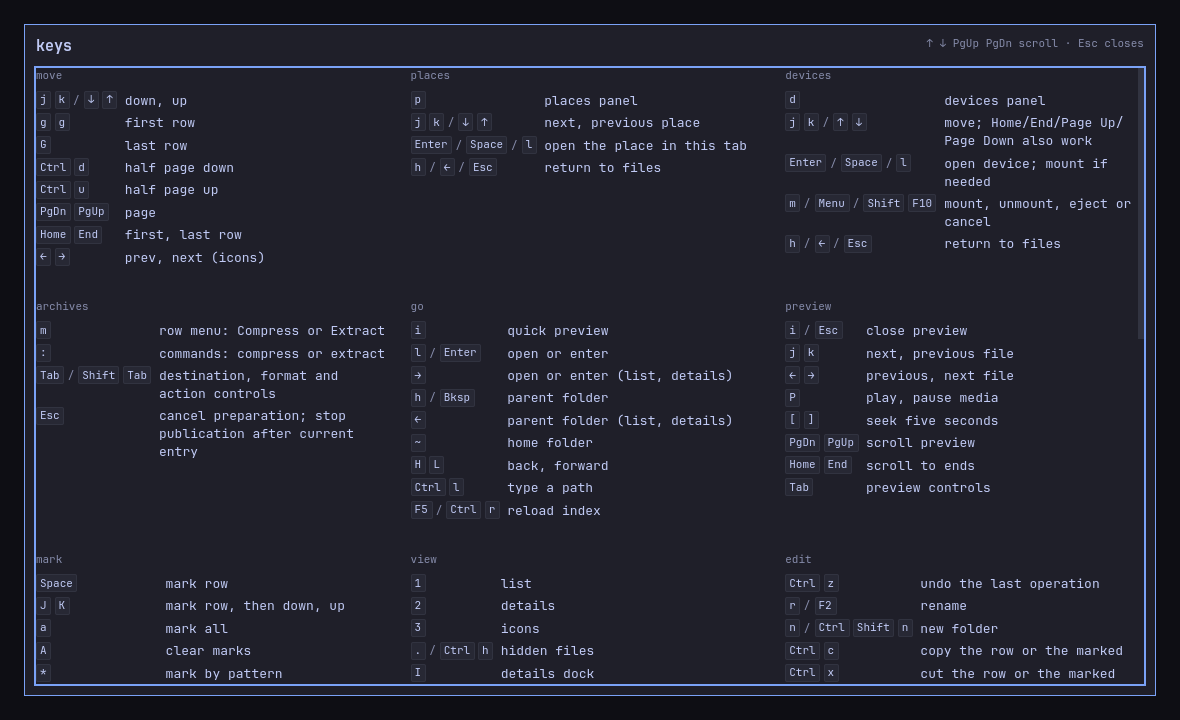
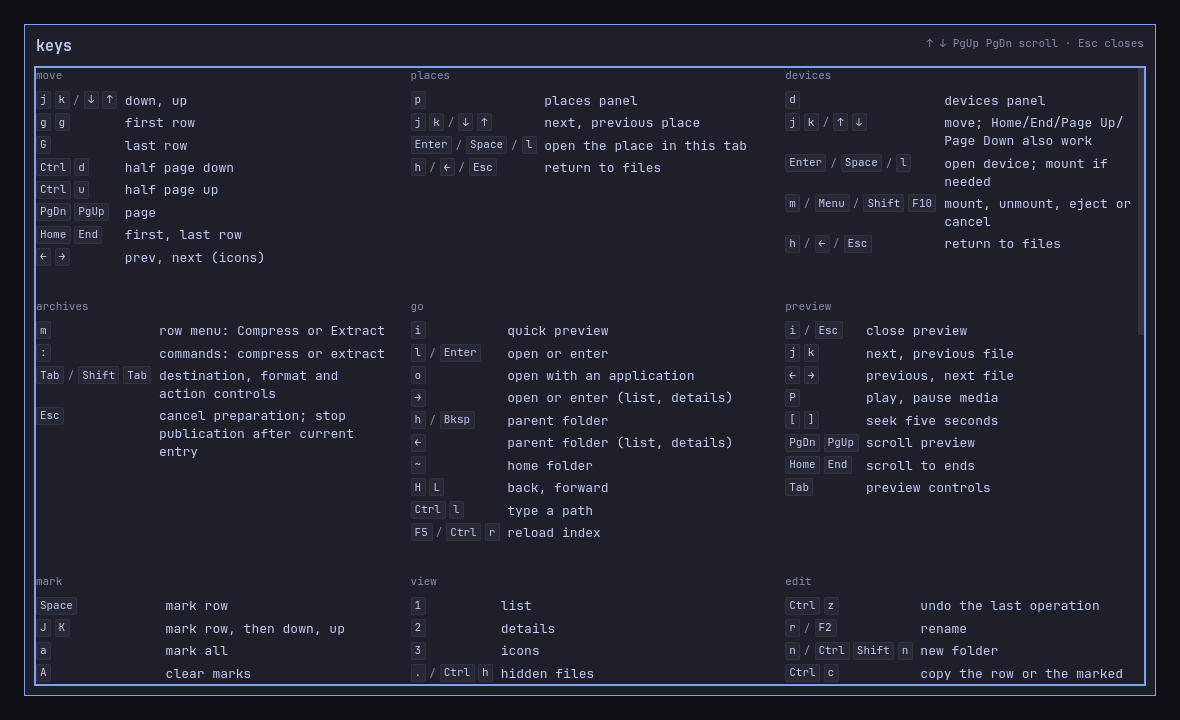
feat(studio): open with from the keyboard with o
Open with in the details dock had no key, while Open and Rename show
theirs, so choosing an application meant the row menu or the pointer.
`o` opens the same list under the cursor row, as `m` places the row
menu, so it works with the dock hidden, and only where the dock's
button can be pressed. The key sheet, the row menu entry and the
dock button name it.

diff --git a/src/studio/qml/Main.qml b/src/studio/qml/Main.qml
@@ -393,6 +393,7 @@ Window {
         { title: "go", keys: [
             { key: "i", label: "quick preview" },
             { key: "l / Enter", label: "open or enter" },
+            { key: "o", label: "open with an application" },
             { key: "→", label: "open or enter (list, details)" },
             { key: "h / Bksp", label: "parent folder" },
             { key: "←", label: "parent folder (list, details)" },
@@ -1349,25 +1350,39 @@ Window {
     function openFileMenuForListing() {
         const listing = activeListing
         const folder = activeFolder
-        if (!listing || !folder || listing.currentIndex < 0) {
-            fileMenu.targetPath = ""
-            fileMenu.targetKind = ""
-            openFileMenuAt(root.width / 2, root.height / 3, root.height / 3)
-            return
-        }
-        fileMenu.targetPath = folder.pathAt(listing.currentIndex)
-        fileMenu.targetKind = folder.kindAt(listing.currentIndex)
-        // Only rows the view has actually built have a position to point at,
-        // and a cursor that is off screen -- or past the end of a list that has
-        // just shrunk -- has none.
-        const item = listing.currentIndex < folder.count
+        const has = listing && folder && listing.currentIndex >= 0
+        fileMenu.targetPath = has ? folder.pathAt(listing.currentIndex) : ""
+        fileMenu.targetKind = has ? folder.kindAt(listing.currentIndex) : ""
+        const span = cursorRowSpan()
+        openFileMenuAt(span.x, span.top, span.bottom)
+    }
+
+    // The cursor row's name and height in `root`, or a point in the middle of
+    // the window where there is no row to point at. Only rows the view has
+    // actually built have a position, and a cursor that is off screen -- or
+    // past the end of a list that has just shrunk -- has none.
+    function cursorRowSpan() {
+        const listing = activeListing
+        const folder = activeFolder
+        const item = listing && folder && listing.currentIndex >= 0
+                     && listing.currentIndex < folder.count
                      ? listing.itemAtIndex(listing.currentIndex) : null
-        if (!item) {
-            openFileMenuAt(root.width / 2, root.height / 3, root.height / 3)
-            return
-        }
+        if (!item)
+            return { x: root.width / 2, top: root.height / 3, bottom: root.height / 3 }
         const top = item.mapToItem(root, 0, 0).y
-        openFileMenuAt(item.nameItem.mapToItem(root, 0, 0).x, top, top + item.height)
+        return { x: item.nameItem.mapToItem(root, 0, 0).x, top: top, bottom: top + item.height }
+    }
+
+    // `o`: the applications for the cursor row, under the row as `m` opens its
+    // menu, so it lands in the same place with the dock shown or hidden. Only
+    // where the dock's Open with can be pressed.
+    function openOpenWithMenuForCursor() {
+        if (!details.canOpenWith)
+            return
+        const span = cursorRowSpan()
+        menuX = span.x
+        menuY = span.bottom
+        openOpenWithMenu(details.entry.path)
     }
 
     function openViewMenuAt(row, x, y) {
@@ -1745,6 +1760,7 @@ Window {
         switch (text) {
         case "l": folder.activateRow(listing.currentIndex); return true
         case "i": openPreview(""); return true
+        case "o": openOpenWithMenuForCursor(); return true
         case "h": folder.goUp(); return true
         case "~": folder.goHome(); return true
         case "H": goBack(); return true
@@ -2531,6 +2547,7 @@ Window {
                         entry: win.activeFilesRoot ? win.activeFilesRoot.entry : ({})
                         addTagKey: "t a"
                         openKey: "l"
+                        openWithKey: "o"
                         renameKey: "r"
                         onTagOpened: function (tag) {
                             win.takeFocus()
@@ -2918,7 +2935,7 @@ Window {
             actions: [
                 { id: "open", label: "Open", key: "l", when: fileMenu.hasTarget },
                 { id: "preview", label: "Quick preview", key: "i", when: fileMenu.isFile },
-                { id: "open-with", label: "Open with…",
+                { id: "open-with", label: "Open with…", key: "o",
                   when: IndexModel.canOpenWith && fileMenu.isRow },
                 { id: "go-to", label: "Go to containing folder",
                   when: win.onFiles && fileMenu.elsewhere },

diff --git a/src/studio/qml/Details.qml b/src/studio/qml/Details.qml
@@ -16,6 +16,7 @@ Rectangle {
     /// The keys of the "+ Tag" button and of the three actions.
     property string addTagKey: ""
     property string openKey: ""
+    property string openWithKey: ""
     property string renameKey: ""
     readonly property bool has: entry && entry.path !== undefined
     // A column the dock has no room for is dropped whole, the actions first:
@@ -26,6 +27,7 @@ Rectangle {
     readonly property bool roomForTags: width >= fileRoom + 1 + tagsWidth
     readonly property bool roomForActions: roomForTags && width >= fileRoom + 2 + tagsWidth + actionsWidth
     readonly property bool onRow: details.has && (details.entry.kind === "file" || details.entry.kind === "dir")
+    readonly property bool canOpenWith: details.onRow && IndexModel.canOpenWith
 
     signal tagOpened(string tag)
     signal tagRemoved(string tag)
@@ -400,7 +402,8 @@ Rectangle {
                 objectName: "detailsOpenWith"
                 label: "Open with"
                 caption: "Choose the application to open it"
-                usable: details.has && IndexModel.canOpenWith && details.onRow
+                key: details.openWithKey
+                usable: details.canOpenWith
                 onClicked: details.openWithRequested(openWith)
             }
             Action {

diff --git a/tests/tst_studio.cpp b/tests/tst_studio.cpp
@@ -771,6 +771,7 @@ private slots:
     void detailsTagChipRemoveIsItsOwnTarget();
     void detailsTagChipHandsOnFocusWhenRemoved();
     void dockActionsRunTheirCommands();
+    void opensWithFromTheKeyboard();
     void detailsDockYieldsInShortWindows();
     void detailsModeRowDropsWhenNarrow();
 
@@ -805,6 +806,7 @@ private:
     void settle();
     bool cancelPendingFileDrop();
     void writeIndex();
+    QDir registerReader();
     /// Walks one whole Tab cycle from the file list: "visited" or "skipped"
     /// says whether `item` took the keyboard on the way, "open" that the
     /// cycle never came back.
@@ -870,6 +872,23 @@ void TestStudio::writeIndex()
                              QString::fromLatin1(row.tags))
                         .toUtf8());
     }
+}
+
+// One application for text files, `Oma Reader`, in the suite's own data home,
+// so `Open with` has something to offer on a machine with none installed.
+// Returns the folder it is written in; the caller removes it.
+QDir TestStudio::registerReader()
+{
+    const QDir data(m_home.path());
+    data.mkpath(QStringLiteral("applications"));
+    const QDir apps(data.filePath(QStringLiteral("applications")));
+    QFile entry(apps.filePath(QStringLiteral("oma-reader.desktop")));
+    if (entry.open(QIODevice::WriteOnly | QIODevice::Text))
+        entry.write("[Desktop Entry]\nType=Application\nName=Oma Reader\nExec=oma-reader %f\n");
+    QFile cache(apps.filePath(QStringLiteral("mimeinfo.cache")));
+    if (cache.open(QIODevice::WriteOnly | QIODevice::Text))
+        cache.write("[MIME Cache]\ntext/plain=oma-reader.desktop;\n");
+    return apps;
 }
 
 // Set before the application exists: the suite runs as if the user raised Qt's
@@ -4625,6 +4644,7 @@ void TestStudio::everyDocumentedKeyIsAnswered()
         {"J", ""},        {"K", ""},
         {"H", "back"},    {"L", "forward"}, // need a folder to go to
         {"I", ""},
+        {"o", "apps"},                     // needs an application and a text file
     };
 
     // The other half of the sheet: the rows spelled as words. The sweep below
@@ -4744,8 +4764,13 @@ void TestStudio::everyDocumentedKeyIsAnswered()
         }
         if (setup == QLatin1String("forward"))
             tab()->goBack();
+        QDir apps;
+        if (setup == QLatin1String("apps"))
+            apps = registerReader();
         settle();
-        QMetaObject::invokeMethod(filesRoot(), "setCursor", Q_ARG(QVariant, QVariant(1)));
+        // Row 1 is the folder; the reader opens text files.
+        const int start = setup == QLatin1String("apps") ? rowOf(QStringLiteral("one.txt")) : 1;
+        QMetaObject::invokeMethod(filesRoot(), "setCursor", Q_ARG(QVariant, QVariant(start)));
         settle();
 
         const QString cwdBefore = cwd();
@@ -4784,6 +4809,8 @@ void TestStudio::everyDocumentedKeyIsAnswered()
                                 .arg(QChar::fromLatin1(one.key[0]))));
 
         key(Qt::Key_Escape);
+        if (setup == QLatin1String("apps"))
+            apps.removeRecursively();
         settle();
     }
 
@@ -5924,13 +5951,9 @@ void TestStudio::worksTheTabMenu()
 // case says the same thing on a machine with no applications installed at all.
 void TestStudio::offersTheApplicationsRegisteredForTheFile()
 {
-    const QDir data(m_home.path());
-    QVERIFY(data.mkpath(QStringLiteral("applications")));
-    QDir apps(data.filePath(QStringLiteral("applications")));
+    QDir apps = registerReader();
 
     const struct { const char *file; const char *body; } entries[] = {
-        {"oma-reader.desktop",
-         "[Desktop Entry]\nType=Application\nName=Oma Reader\nExec=oma-reader %f\n"},
         {"oma-hidden.desktop",
          "[Desktop Entry]\nType=Application\nName=Oma Hidden\nNoDisplay=true\nExec=x %f\n"},
         {"oma-dropped.desktop",
@@ -10330,6 +10353,7 @@ void TestStudio::dockActionsRunTheirCommands()
     QCOMPARE(window()->property("prompt").toString(), QString());
 
     auto *openWith = itemsNamed(QStringLiteral("detailsOpenWith")).first();
+    QCOMPARE(openWith->property("key").toString(), QStringLiteral("o"));
     QCOMPARE(openWith->isEnabled(), m_index->canOpenWith());
     if (!m_index->canOpenWith())
         return;
@@ -10340,6 +10364,71 @@ void TestStudio::dockActionsRunTheirCommands()
                                : m_index->notice() == QStringLiteral("no application registered for two.md"),
              qPrintable(m_index->notice()));
     key(Qt::Key_Escape);
+}
+
+// `o` opens the applications for the cursor row, as the dock's Open with does,
+// under the row with the dock shown or hidden, and does nothing on a row the
+// dock's button cannot be pressed for.
+void TestStudio::opensWithFromTheKeyboard()
+{
+    if (!m_index->canOpenWith())
+        QSKIP("nothing here can launch an application with Open with");
+    QDir apps = registerReader();
+    const auto cleanup = qScopeGuard([&] {
+        apps.removeRecursively();
+        window()->setProperty("detailsShown", true);
+        settle();
+    });
+    QObject *root = m_engine->rootObjects().first();
+    auto *menu = itemsNamed(QStringLiteral("openWithMenu")).first();
+    const QString one = m_tree.filePath(QStringLiteral("one.txt"));
+
+    for (const bool shown : {true, false}) {
+        root->setProperty("detailsShown", shown);
+        focusRow(QStringLiteral("one.txt"));
+        key('o');
+        QTRY_VERIFY(menu->isVisible());
+        QCOMPARE(menu->property("targetPath").toString(), one);
+        QVERIFY2(menuLabels(QStringLiteral("openWithMenu")).contains(QStringLiteral("Oma Reader")),
+                 qPrintable(menuLabels(QStringLiteral("openWithMenu")).join(QLatin1String(" | "))));
+        // Under the row, where `m` opens the row menu.
+        auto *panel = menu->property("panel").value<QQuickItem *>();
+        QVERIFY(panel);
+        auto *listing = filesRoot()->property("view").value<QQuickItem *>();
+        QQuickItem *row = nullptr;
+        QMetaObject::invokeMethod(listing, "itemAtIndex", Q_RETURN_ARG(QQuickItem *, row),
+                                  Q_ARG(int, cursor()));
+        QVERIFY(row);
+        QCOMPARE(panel->mapToScene(QPointF(0, 0)).y(),
+                 row->mapToScene(QPointF(0, row->height())).y());
+        key(Qt::Key_Escape);
+        QTRY_VERIFY(!menu->isVisible());
+    }
+
+    // The row menu's entry names the same key.
+    key('m');
+    auto *rowMenu = itemsNamed(QStringLiteral("fileMenu")).first();
+    QTRY_VERIFY(rowMenu->isVisible());
+    QString shownKey;
+    for (const QVariant &entry : rowMenu->property("shown").toList())
+        if (entry.toMap().value(QStringLiteral("id")).toString() == QLatin1String("open-with"))
+            shownKey = entry.toMap().value(QStringLiteral("key")).toString();
+    QCOMPARE(shownKey, QStringLiteral("o"));
+    key(Qt::Key_Escape);
+    QTRY_VERIFY(!rowMenu->isVisible());
+
+    // The `..` row is a way up, not a file: the dock's button is greyed there,
+    // and the key neither opens the menu nor says it found nothing.
+    QMetaObject::invokeMethod(filesRoot(), "setCursor", Q_ARG(QVariant, QVariant(0)));
+    settle();
+    QCOMPARE(filesRoot()->property("entry").toMap().value(QStringLiteral("kind")).toString(),
+             QStringLiteral("parent"));
+    QVERIFY(!itemsNamed(QStringLiteral("detailsOpenWith")).first()->isEnabled());
+    m_index->clearNotice();
+    key('o');
+    settle();
+    QVERIFY(!menu->isVisible());
+    QCOMPARE(m_index->notice(), QString());
 }
 
 QTEST_MAIN(TestStudio)

diff --git a/docs/design.md b/docs/design.md
@@ -48,7 +48,7 @@ The CLI is a command-line tool that invokes core library verbs: `ls`, `tags`, `t
 
 ### Studio (`src/studio`)
 
-The studio is a Qt Quick window over the core library. It implements folder browsing, tag editing, thumbnail display, preview, trash, undo, desktop file manager integration, file operations with conflict resolution, and the portal file chooser. Its window is a tab strip and a toolbar, then the body: the sidebar on the left (`Sidebar.qml`: places, devices, tags, saved views) at full height, and beside it the panes in a split view with the details dock under them (`Details.qml`), as wide as every pane together and behind a 1 px `line`. The dock has three columns split by `line`: the file (a 48 px `raised` icon square, the name in `fontTitle` DemiBold, the path, the facts in pairs), its tags (248 px), and its actions (156 px). A column with no room beside 400 px of file column is dropped whole, the actions first. The tab strip holds every pane's tabs, side by side in pane order, each pane's group with its own `+`, and the keys sheet's button at the right. The toolbar holds back, forward, up and undo, the path as one `Chip` per folder (the current one on; a stem too long for the bar gives way from the left behind one `…`), the filter field, the sort button (`chooseSort` in `Main.qml`, which `s` also calls), the view mode switch (`ViewModeSwitch.qml`: one Tab stop, Left and Right inside) and the Details toggle (`detailsShown`). The toolbar acts on the focused pane. There is one sidebar and one dock per window, and both act on the focused pane too. The sidebar is dropped while a pane would be too narrow beside it (`paneShare`, the window width over the pane count, under 480). The dock is as tall as its file column with the path on all three lines, so it keeps its height while the cursor moves. It is there on every list tab at any width; it is dropped while the panes above it would be shorter than `listLeast`, and comes back when there is room (`details.fits`). The Details toggle and **I** (`detailsShown`, also the palette's **Show or hide details**) decide whether it is wanted. The facts' Mode and Marked row is dropped where the file column cannot hold the permission bits, so no bit is cut. The path wraps only after `/`: `Details.breakable` puts U+200B after each `/` and U+2060 between the other characters, so a space or a hyphen gives no break, and `fitPath` drops whole folders from the middle behind `…` until a hidden probe `Text` lays it out on three lines. A dock tag chip is one `FocusableControl` whose tap is routed by position: the trailing 12 px `×` removes the tag (`IndexModel.tagRemove` over the row or the marked set, as the row menu's **Remove tag** does), the body toggles the tag's view as a sidebar click does (`toggleTag`); Enter opens and Delete removes. A chip that goes while it has the keyboard, as when the cursor moves to a row without its tag, hands the keyboard to the next control in the Tab chain (`handOnFocus`), as a hidden `FocusableControl` does. Open, Open with and Rename call what `l`, the row menu and `r` call. `detailsDockTogglesWithKey`, `detailsPathBreaksAfterSlash`, `detailsTagChipRemoveIsItsOwnTarget`, `detailsTagChipHandsOnFocusWhenRemoved` and `dockActionsRunTheirCommands` in `tests/tst_studio.cpp` check the place, the path, the chips, where the keyboard goes when a chip goes, and the actions. It runs the CLI and core verbs asynchronously in background tasks. The window can run without the helpers; helpers are started on demand when their features are used. Large folders are loaded in the background with names cached and metadata read on demand. Background jobs run on Qt's global thread pool, which Qt sizes from the CPU affinity mask: one thread on one CPU. A job that makes filesystem calls (folder listing, folder item counts, index presence, Trash scan, restore and empty, drop planning, portal path checks, undo steps, archive stage cleanup, default file manager setup) runs through `runBlocking` in `src/studio/BlockingJob.h`, which gives the job's pool slot back with `QThreadPool::releaseThread()` until it returns, as Qt documents for a runnable that waits. A job stuck in the kernel on an unresponsive mount then never keeps queued jobs waiting; the pool starts another thread for them. Pure CPU work (portal filter patterns) keeps its slot, and the CPU-heavy parts of a folder listing run on the directory worker pool, one worker per allowed CPU. See [browsing.md](browsing.md) for how large folder browsing works, [thumbnails.md](thumbnails.md) for thumbnail caching, [drag-and-drop.md](drag-and-drop.md) for file operations, and [conflicts.md](conflicts.md) for handling conflicting paths during copy and move.
+The studio is a Qt Quick window over the core library. It implements folder browsing, tag editing, thumbnail display, preview, trash, undo, desktop file manager integration, file operations with conflict resolution, and the portal file chooser. Its window is a tab strip and a toolbar, then the body: the sidebar on the left (`Sidebar.qml`: places, devices, tags, saved views) at full height, and beside it the panes in a split view with the details dock under them (`Details.qml`), as wide as every pane together and behind a 1 px `line`. The dock has three columns split by `line`: the file (a 48 px `raised` icon square, the name in `fontTitle` DemiBold, the path, the facts in pairs), its tags (248 px), and its actions (156 px). A column with no room beside 400 px of file column is dropped whole, the actions first. The tab strip holds every pane's tabs, side by side in pane order, each pane's group with its own `+`, and the keys sheet's button at the right. The toolbar holds back, forward, up and undo, the path as one `Chip` per folder (the current one on; a stem too long for the bar gives way from the left behind one `…`), the filter field, the sort button (`chooseSort` in `Main.qml`, which `s` also calls), the view mode switch (`ViewModeSwitch.qml`: one Tab stop, Left and Right inside) and the Details toggle (`detailsShown`). The toolbar acts on the focused pane. There is one sidebar and one dock per window, and both act on the focused pane too. The sidebar is dropped while a pane would be too narrow beside it (`paneShare`, the window width over the pane count, under 480). The dock is as tall as its file column with the path on all three lines, so it keeps its height while the cursor moves. It is there on every list tab at any width; it is dropped while the panes above it would be shorter than `listLeast`, and comes back when there is room (`details.fits`). The Details toggle and **I** (`detailsShown`, also the palette's **Show or hide details**) decide whether it is wanted. The facts' Mode and Marked row is dropped where the file column cannot hold the permission bits, so no bit is cut. The path wraps only after `/`: `Details.breakable` puts U+200B after each `/` and U+2060 between the other characters, so a space or a hyphen gives no break, and `fitPath` drops whole folders from the middle behind `…` until a hidden probe `Text` lays it out on three lines. A dock tag chip is one `FocusableControl` whose tap is routed by position: the trailing 12 px `×` removes the tag (`IndexModel.tagRemove` over the row or the marked set, as the row menu's **Remove tag** does), the body toggles the tag's view as a sidebar click does (`toggleTag`); Enter opens and Delete removes. A chip that goes while it has the keyboard, as when the cursor moves to a row without its tag, hands the keyboard to the next control in the Tab chain (`handOnFocus`), as a hidden `FocusableControl` does. Open, Open with and Rename show and call what `l`, `o` and `r` call; `o` opens the row menu's Open with list under the cursor row (`openOpenWithMenuForCursor`), only where the dock's button is usable (`details.canOpenWith`), so it works with the dock hidden. `detailsDockTogglesWithKey`, `detailsPathBreaksAfterSlash`, `detailsTagChipRemoveIsItsOwnTarget`, `detailsTagChipHandsOnFocusWhenRemoved` `dockActionsRunTheirCommands` and `opensWithFromTheKeyboard` in `tests/tst_studio.cpp` check the place, the path, the chips, where the keyboard goes when a chip goes, and the actions. It runs the CLI and core verbs asynchronously in background tasks. The window can run without the helpers; helpers are started on demand when their features are used. Large folders are loaded in the background with names cached and metadata read on demand. Background jobs run on Qt's global thread pool, which Qt sizes from the CPU affinity mask: one thread on one CPU. A job that makes filesystem calls (folder listing, folder item counts, index presence, Trash scan, restore and empty, drop planning, portal path checks, undo steps, archive stage cleanup, default file manager setup) runs through `runBlocking` in `src/studio/BlockingJob.h`, which gives the job's pool slot back with `QThreadPool::releaseThread()` until it returns, as Qt documents for a runnable that waits. A job stuck in the kernel on an unresponsive mount then never keeps queued jobs waiting; the pool starts another thread for them. Pure CPU work (portal filter patterns) keeps its slot, and the CPU-heavy parts of a folder listing run on the directory worker pool, one worker per allowed CPU. See [browsing.md](browsing.md) for how large folder browsing works, [thumbnails.md](thumbnails.md) for thumbnail caching, [drag-and-drop.md](drag-and-drop.md) for file operations, and [conflicts.md](conflicts.md) for handling conflicting paths during copy and move.
 
 ### Studio metrics
 

diff --git a/docs/screens.md b/docs/screens.md
@@ -12,7 +12,7 @@ In list view every row shows its icon and name, then its tags, size and modified
 
 Reach it: The main window opens when the application starts.
 
-Keys: **j k / ↓ ↑** (down, up), **g g** (first row), **G** (last row), **Ctrl d** (half page down), **Ctrl u** (half page up), **PgDn PgUp** (page), **Home End** (first, last row), **← →** (prev, next in icons view), **l / Enter** (open row), **h / Bksp / ←** (parent folder), **H L** (back, forward), **~** (home folder), **1** (list view), **2** (details view), **3** (icons view), **s** (sort menu), **S** (flip sort direction), **I** (details dock), **.** (hidden files), **Ctrl h** (hidden files), **Ctrl l** (type a path), **F5 Ctrl r** (reload).
+Keys: **j k / ↓ ↑** (down, up), **g g** (first row), **G** (last row), **Ctrl d** (half page down), **Ctrl u** (half page up), **PgDn PgUp** (page), **Home End** (first, last row), **← →** (prev, next in icons view), **l / Enter** (open row), **o** (open with an application), **h / Bksp / ←** (parent folder), **H L** (back, forward), **~** (home folder), **1** (list view), **2** (details view), **3** (icons view), **s** (sort menu), **S** (flip sort direction), **I** (details dock), **.** (hidden files), **Ctrl h** (hidden files), **Ctrl l** (type a path), **F5 Ctrl r** (reload).
 
 Picture: **img/01-studio.png**
 
@@ -28,7 +28,7 @@ Picture: **img/02-details.png**
 
 ## Details dock
 
-The details dock is a band under the panes, as wide as all of them, with a thin line above it. It shows the current row of the focused pane in three columns. The first holds the file's icon in a square, its name in bold, and its path in grey. The path breaks only after a **/**, takes at most three lines, and drops folders from its middle behind **…** when it is longer. Under the path, the facts come in pairs: **Type** (the mime type) and **Size** (or **Items** for a folder), **Modified** and **Owner**, then **Mode** (the permission bits) and **Marked**. A click on a permission bit changes it at once; the bits are greyed on a link and on a file that is not yours. The second column, **Tags**, holds the row's tags as chips. Click a chip, or Tab to it and press **Enter**, to list the files with that tag, as a click on the tag in the sidebar does. Each chip ends in **×**: click it, or press **Delete** while the chip has the keyboard, to remove the tag from the row, or from the marked set when the row is marked. The **+ Tag** button adds a tag, as **t a** does; it is greyed out while the current row is not a file or folder. The column scrolls when the tags do not fit. The third column holds **Open**, **Open with** and **Rename**, each with its key where it has one; they do what **l**, the row menu's **Open with…** and **r** do.
+The details dock is a band under the panes, as wide as all of them, with a thin line above it. It shows the current row of the focused pane in three columns. The first holds the file's icon in a square, its name in bold, and its path in grey. The path breaks only after a **/**, takes at most three lines, and drops folders from its middle behind **…** when it is longer. Under the path, the facts come in pairs: **Type** (the mime type) and **Size** (or **Items** for a folder), **Modified** and **Owner**, then **Mode** (the permission bits) and **Marked**. A click on a permission bit changes it at once; the bits are greyed on a link and on a file that is not yours. The second column, **Tags**, holds the row's tags as chips. Click a chip, or Tab to it and press **Enter**, to list the files with that tag, as a click on the tag in the sidebar does. Each chip ends in **×**: click it, or press **Delete** while the chip has the keyboard, to remove the tag from the row, or from the marked set when the row is marked. The **+ Tag** button adds a tag, as **t a** does; it is greyed out while the current row is not a file or folder. The column scrolls when the tags do not fit. The third column holds **Open**, **Open with** and **Rename**, each with its key: **l**, **o** and **r**. They do what those keys do; **o** opens the row menu's **Open with…** list under the row, and does nothing where the button is greyed: on **..**, a tag row, or with nothing on the system to launch an application.
 
 Press **I** to hide the dock and give its room to the list, and **I** again to show it. A window too short to keep a column heading and four rows of list above the dock drops it until it is tall enough again. In a narrow window the dock drops the actions column first and then the tags column; their keys still work, and the rows still show their tags. Narrower still, the **Mode** and **Marked** row goes; the row menu's **Permissions…** still sets the bits.
 
